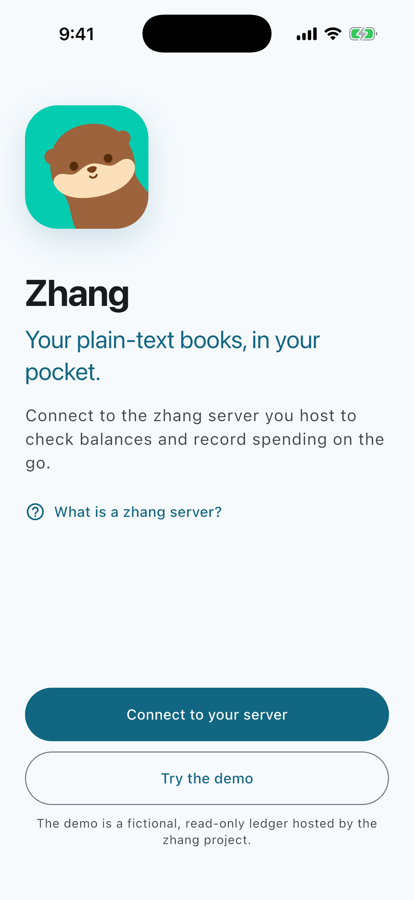
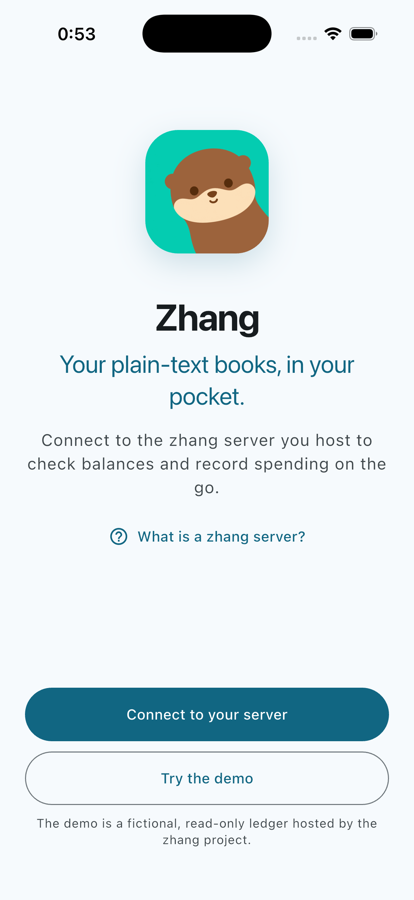
feat(onboarding): centre the welcome page content

diff --git a/lib/features/onboarding/welcome_page.dart b/lib/features/onboarding/welcome_page.dart
@@ -20,10 +20,9 @@ class WelcomePage extends StatelessWidget {
     final theme = Theme.of(context);
     final c = controller;
     return SetupLayout(
-      top: 40,
+      top: 64,
       content: [
-        Align(
-          alignment: AlignmentDirectional.centerStart,
+        Center(
           child: DecoratedBox(
             decoration: BoxDecoration(
               borderRadius: BorderRadius.circular(32),
@@ -44,24 +43,26 @@ class WelcomePage extends StatelessWidget {
         const SizedBox(height: 40),
         Text(
           l10n.appTitle,
+          textAlign: TextAlign.center,
           style: theme.textTheme.displaySmall?.copyWith(fontWeight: FontWeight.w700, letterSpacing: -0.8),
         ),
         const SizedBox(height: 8),
         Text(
           l10n.welcomeTagline,
+          textAlign: TextAlign.center,
           style: theme.textTheme.headlineSmall?.copyWith(color: theme.colorScheme.primary, height: 1.3),
         ),
         const SizedBox(height: 16),
         Text(
           l10n.welcomeBody,
+          textAlign: TextAlign.center,
           style: theme.textTheme.bodyLarge?.copyWith(color: theme.colorScheme.onSurfaceVariant, height: 1.45),
         ),
         const SizedBox(height: 12),
-        Align(
-          alignment: AlignmentDirectional.centerStart,
+        Center(
           child: TextButton.icon(
             key: const Key('welcome.about'),
-            style: TextButton.styleFrom(padding: const EdgeInsetsDirectional.only(start: 0, end: 12)),
+            style: TextButton.styleFrom(padding: const EdgeInsets.symmetric(horizontal: 12)),
             onPressed: () => _showAbout(context),
             icon: const Icon(Icons.help_outline, size: 20),
             label: Text(l10n.welcomeWhatIsZhang),
